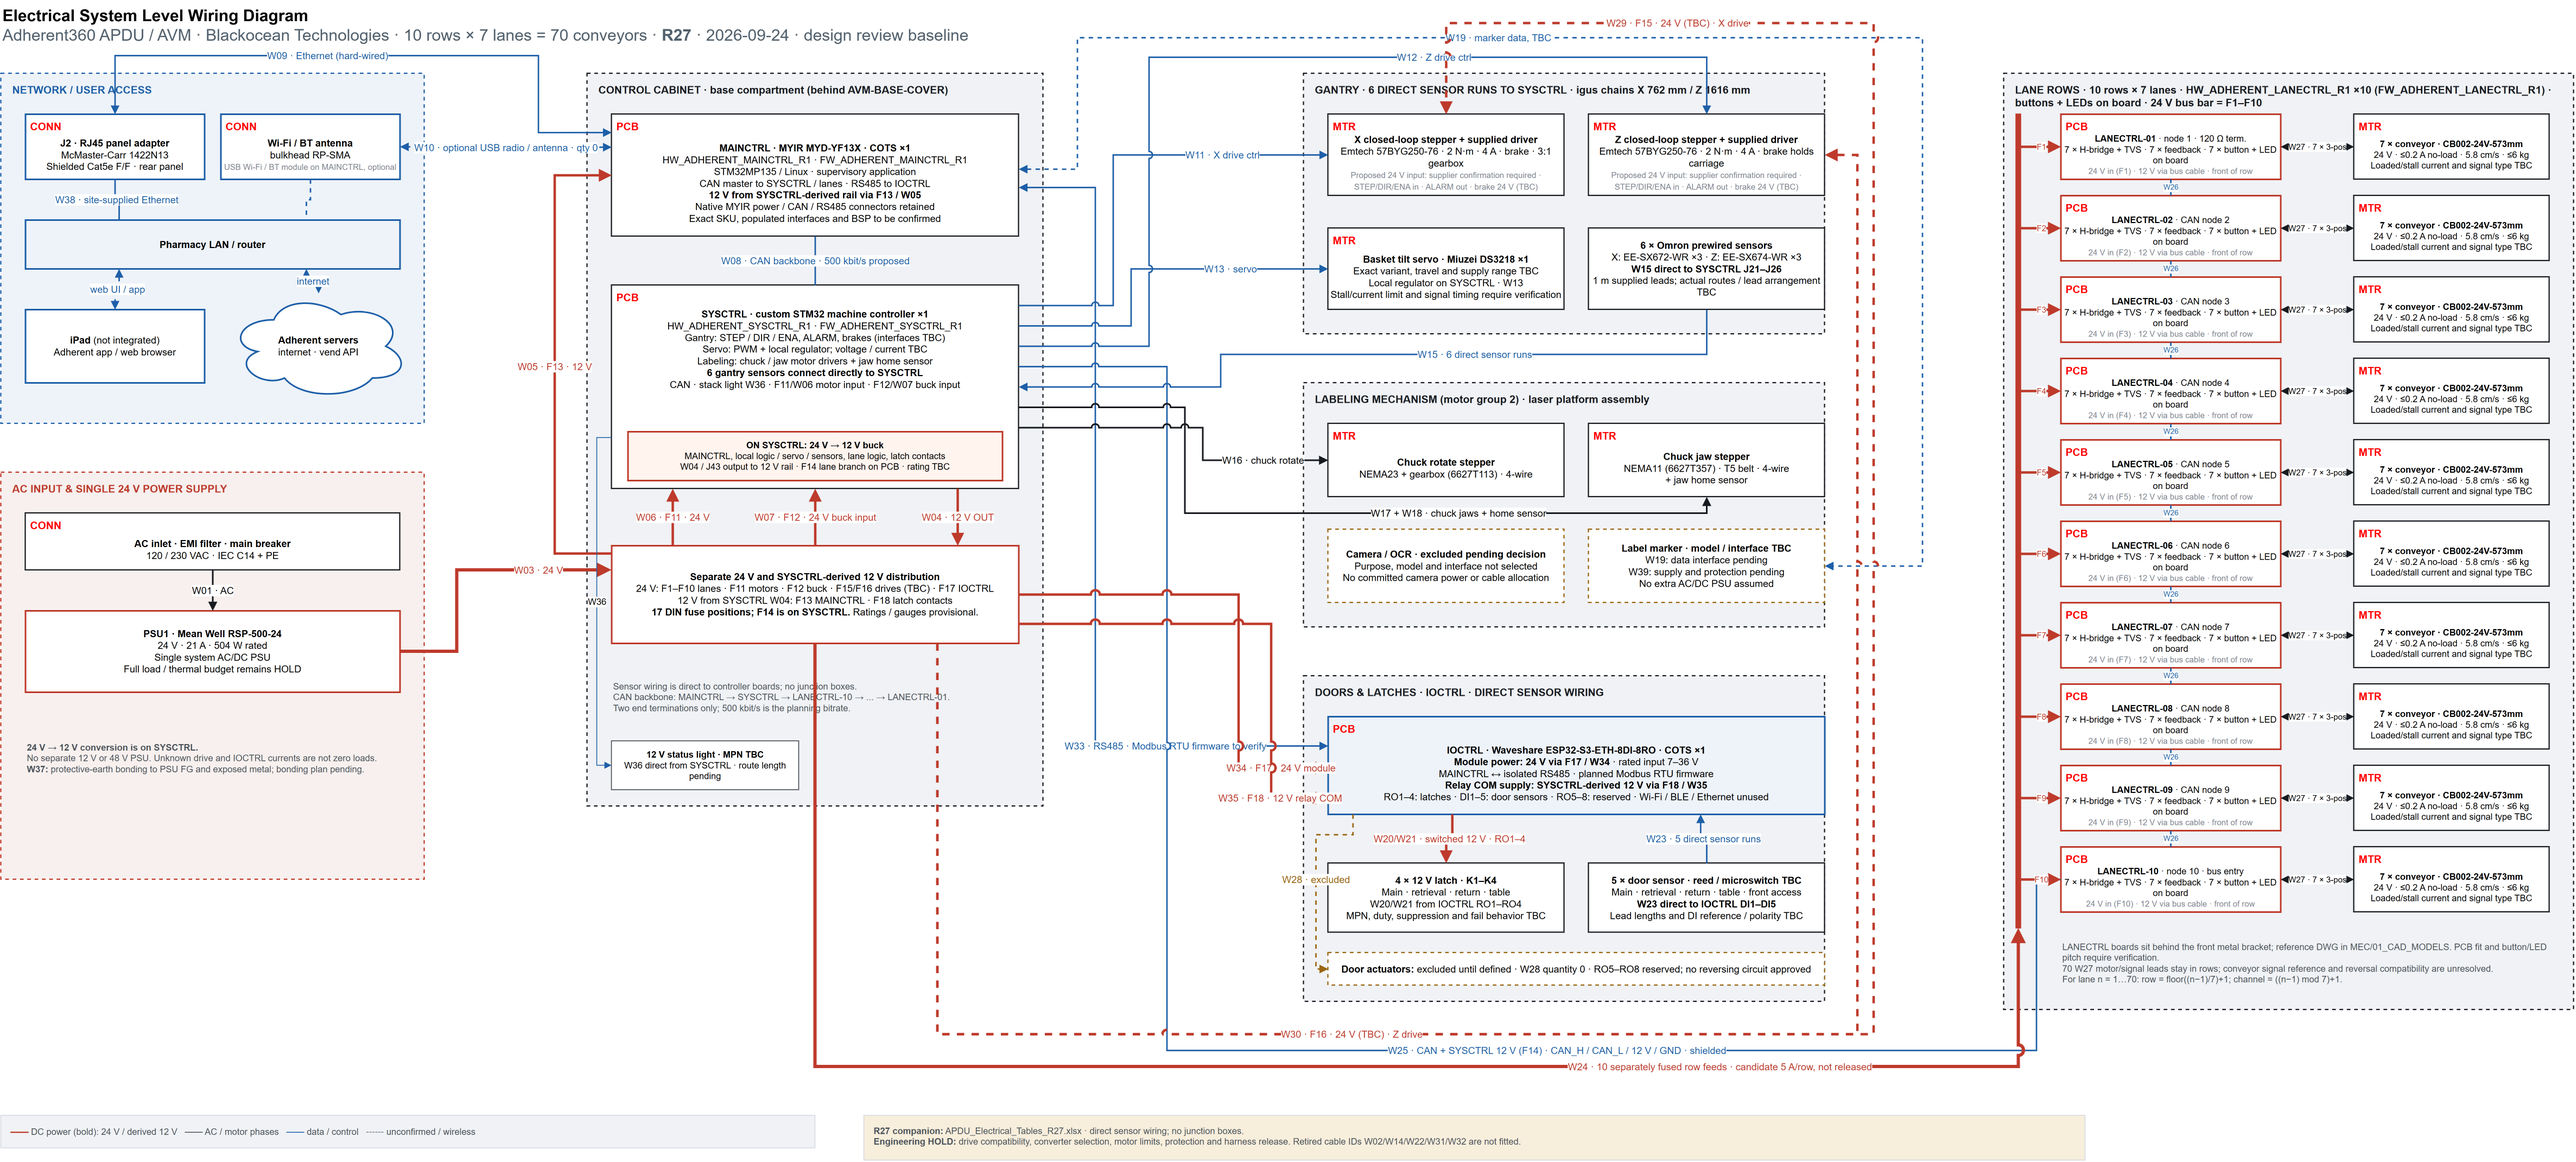
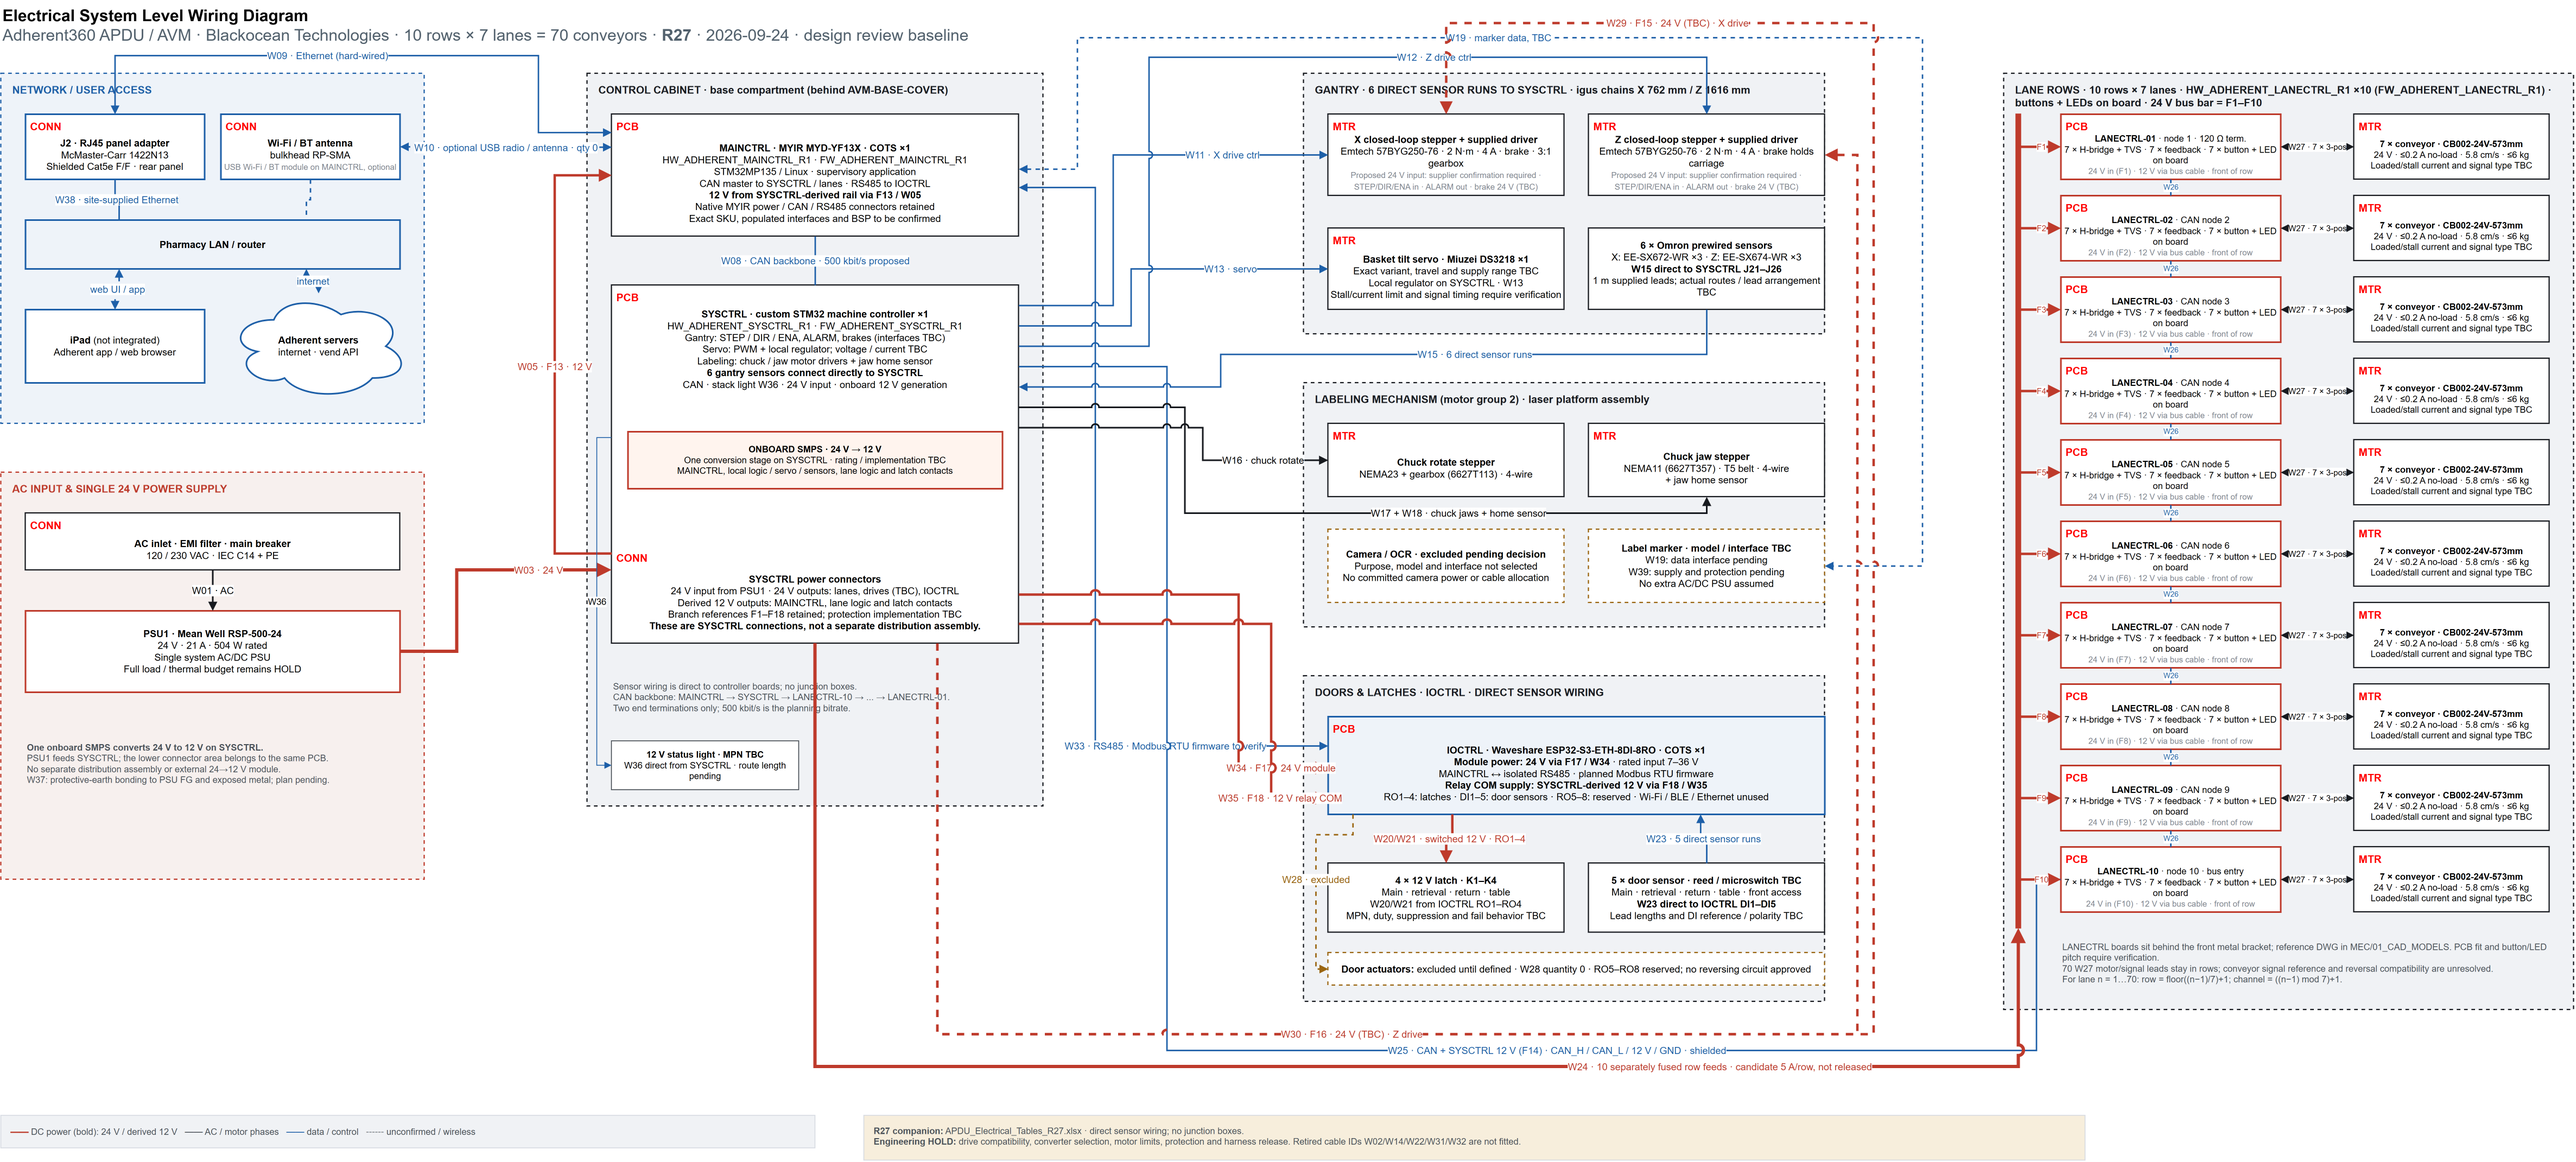
Merge SYSCTRL power connections into one controller assembly

diff --git a/brain.md b/brain.md
@@ -83,7 +83,15 @@ This file records project decisions and working assumptions. A diagram label or 
 - Driver/TVS choices, connector current capacity, button placement and bezel alignment still need detailed design verification.
 - Diagram assumes front-of-row mounting; confirm mechanically.
 
-## R27 power routing and identifiers
+## Latest SYSCTRL representation correction
+
+- SYSCTRL and the former lower distribution box are one PCB assembly. The lower area represents SYSCTRL power connectors, not a separate distribution assembly.
+- Show one onboard 24 V-to-12 V SMPS block. PSU1 supplies 24 V to SYSCTRL; external loads connect through SYSCTRL.
+- Removed the misleading external W04/W06/W07 loop arrows between those two boxes. Their previous external-harness descriptions must not be used as released wiring.
+- F1–F18 remain branch references; the previous 17-DIN-holder placement is not confirmed by this correction. Final protection implementation and connector pinouts remain TBC.
+- The R27 spreadsheet/presentation snapshot predates this representation correction. Reconcile distribution procurement lines, harness classification and protection location at the next schedule update.
+
+## R27 power routing and identifiers (schedule snapshot; correction above takes precedence)
 
 - W03: PSU1 24 V output to fused distribution.
 - W06 / F11: 24 V motor supply to SYSCTRL.
@@ -152,7 +160,7 @@ The four electromagnetic latches are not counted as motors. Door actuator models
 - Keep only current deliverable revisions under `SYS`. Recover older revisions from Git history. No RAR bundles.
 - Keep diagram blocks and orthogonal routes spacious, labels legible and arrows clear.
 - Put a **red, bold category tag in the upper-left corner inside each applicable component box**: `CONN` for connectors, `PCB` for controller boards, `MTR` for motors. Keep tags attached to their boxes and reserve enough space so they do not overlap content.
-- R27 category tags cover 3 connector/interface boxes (RJ45 panel adapter, optional antenna bulkhead and AC inlet), 13 controller-board boxes, and 15 motor/assembly boxes (five individual motor groups and ten seven-conveyor row groups). Counts refer to diagram boxes, not physical component quantities.
+- R27 category tags cover 4 connector/interface boxes (RJ45 panel adapter, optional antenna bulkhead AC inlet and SYSCTRL power connectors), 13 controller-board boxes, and 15 motor/assembly boxes (five individual motor groups and ten seven-conveyor row groups). Counts refer to diagram boxes, not physical component quantities.
 - Category tags do not replace existing J/W/F identifiers or controller names. Onboard converter sections are not separate PCBs; excluded door actuators remain undefined and are not tagged as selected motors.
 - Edit the `.drawio` source and regenerate its PNG together. README embeds the current PNG from `SYS`.
 - Bold red arrows carry power only. Data/control paths are blue. Clearly distinguish proposed connections.
@@ -182,7 +190,7 @@ The four electromagnetic latches are not counted as motors. Door actuator models
 - Known PSU peak subtotal: 268.96 W, excluding three missing load currents and marker power. Not a complete capacity approval.
 - Seven-conveyor row case: 14.05 A versus candidate 5 A protection; concurrency must be constrained and tested.
 - 39 cable IDs, 31 required types, five missing route lengths; 111 m is only the known routing subtotal.
-- 17 DIN protection positions plus F14 on SYSCTRL.
+- 18 branch-protection references; physical placement and holder quantities need reconciliation with the merged SYSCTRL connector architecture.
 - FW/SW folders contain scope descriptions only, no implemented firmware/application builds.
 - HW contains four reserved board folders; no production PCB designs have been added. README must distinguish planned functions from implemented or validated capabilities.
 

diff --git a/SYS/README.md b/SYS/README.md
@@ -1,5 +1,7 @@
 # Current system documents
 
+Latest diagram correction: the lower power-connection area is part of SYSCTRL, with one onboard 24 V-to-12 V SMPS. The spreadsheet and presentation snapshots predate this correction; their separate distribution assembly, external W04/W06/W07 loop and DIN-holder assumptions need reconciliation before use for procurement. See [project decisions](../brain.md).
+
 - [System diagram components and part numbers R27](ADHERENT_System_Diagram_Components_R27.xlsx): 74 component/interface rows, manufacturers, part numbers or explicit TBC entries, quantities, selection status and sources.
 - [Electrical tables R27](APDU_Electrical_Tables_R27.xlsx): assembly BOM, boards, connectors, cables, protection, power calculations and unresolved engineering items.
 - [System wiring diagram R27](Electrical_System_Level_Wiring_Diagram_R27.drawio) and [PNG preview](Electrical_System_Level_Wiring_Diagram_R27.png).
